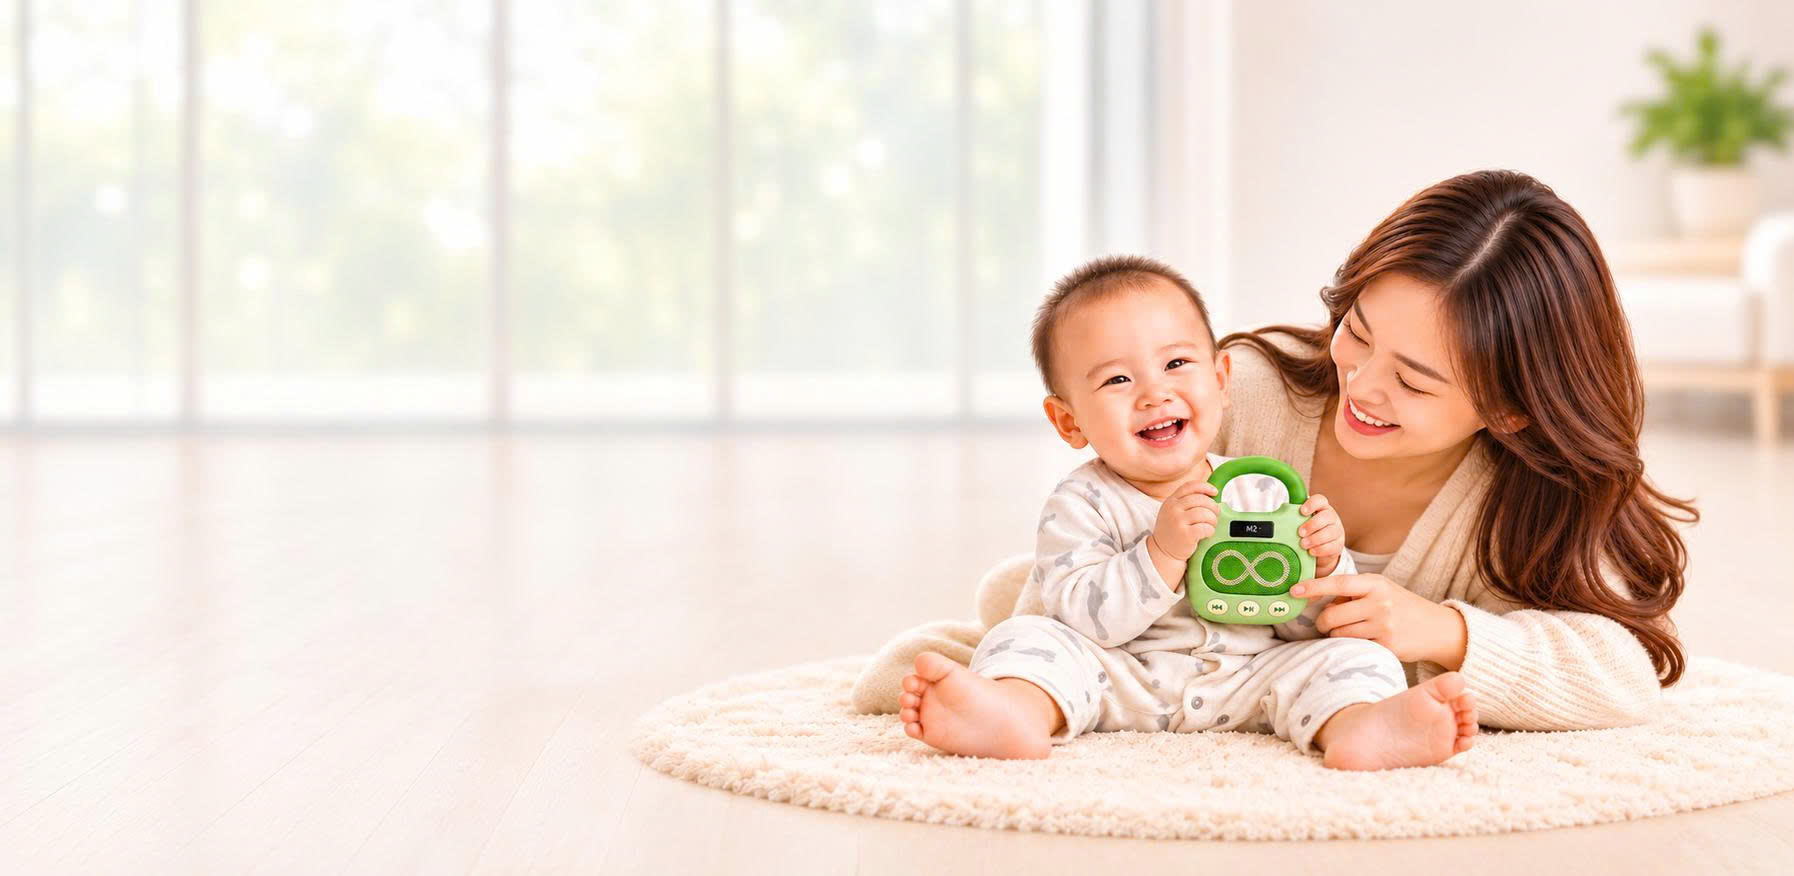
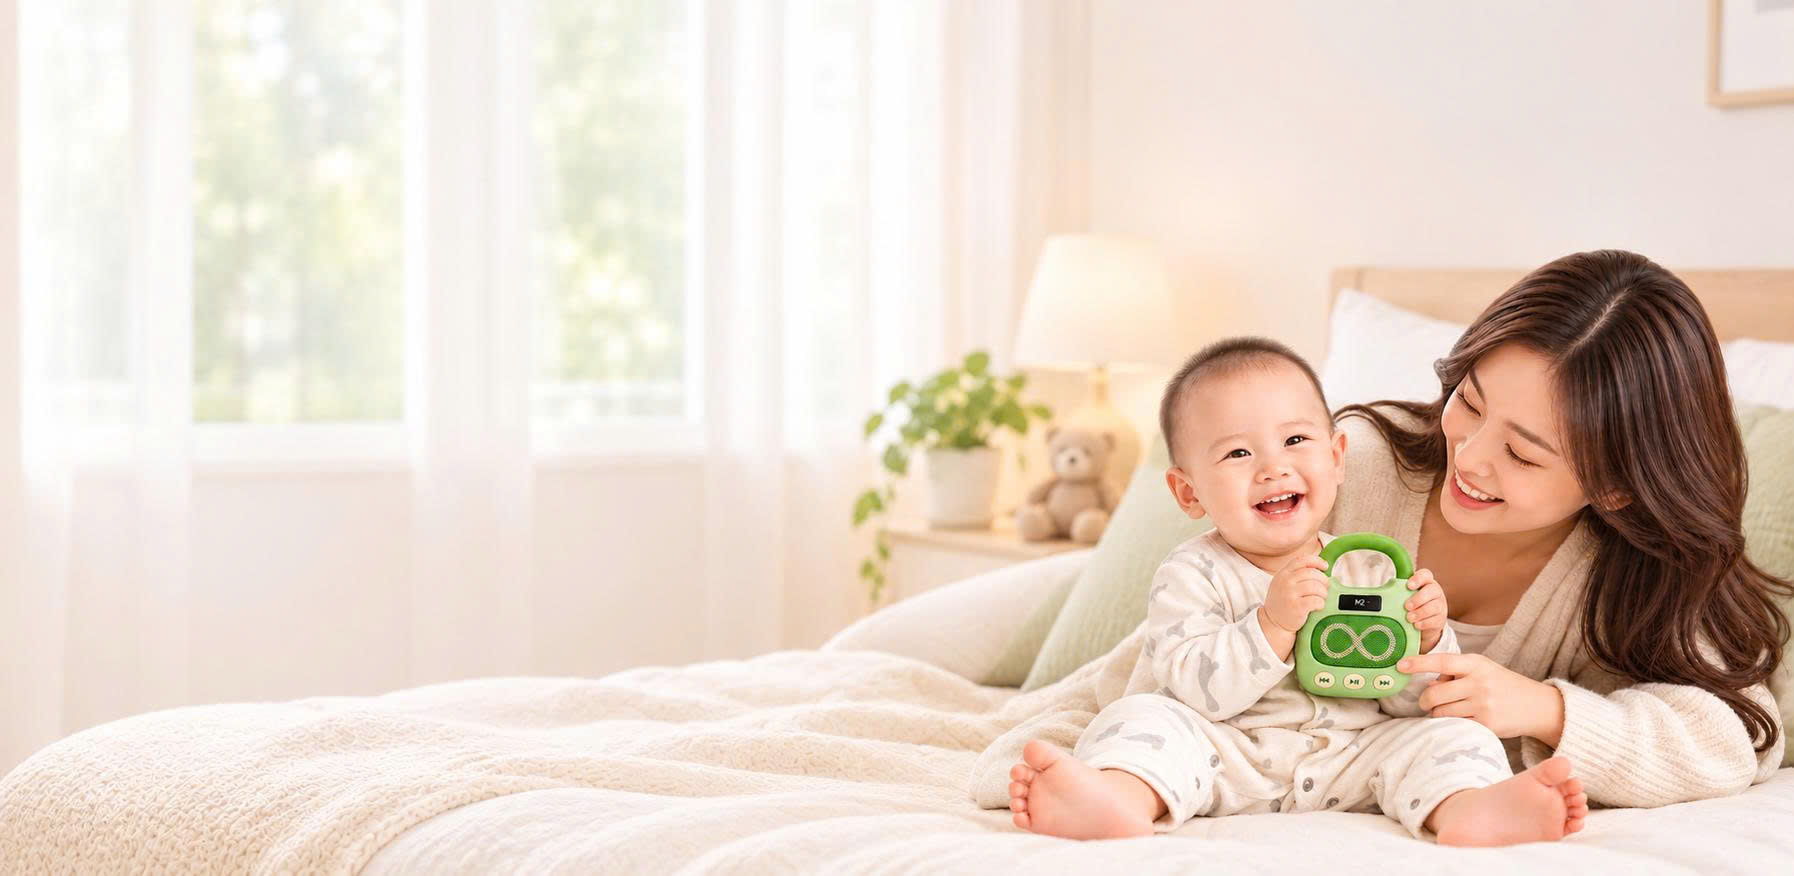
feat(index): change background image section 1 #3

diff --git a/source-main/assets/css/style-responsive.css b/source-main/assets/css/style-responsive.css
@@ -73,7 +73,9 @@
     }
 
     .home-wrapper-section-banner {
-        height: calc(100vh - 56px);
+    height: auto;
+    min-height: calc(100vh - 56px);
+    padding-bottom: 56vw;
     }
 
     .grg {
@@ -422,6 +424,14 @@
 
     .z {
         display: none;
+    }
+
+    /* Banner cao theo nội dung (không cố định 100vh) để màn hình thấp như
+       iPhone SE chữ không đè lên mặt bé; chừa đáy cho phần mẹ & bé. */
+    .home-wrapper-section-banner {
+        height: auto;
+        min-height: calc(100vh - 56px);
+        padding-bottom: 56vw;
     }
 
     .home-wrapper-section-primary {
@@ -884,5 +894,17 @@
 @media screen and (max-width: 440px) {
     .language-switcher-text-span-secondary {
         font-size: 12px;
+    }
+}
+
+/* iPad dọc (769–1024px): dùng ảnh banner dọc giống mobile.
+   iPad ngang vẫn giữ ảnh ngang của desktop. */
+@media screen and (min-width: 769px) and (max-width: 1024px) and (orientation: portrait) {
+    .z.mb {
+        display: block;
+    }
+
+    .z {
+        display: none;
     }
 }

diff --git a/source-main/index-en.html b/source-main/index-en.html
@@ -245,9 +245,9 @@
                 </noscript>
             </div>
             <section id="home" class="home-wrapper-section-banner" aria-labelledby="hero-heading">
-                <img class="z" src="./assets/images/Mom&baby1.jpg" alt="Mom and baby"
+                <img class="z" src="./assets/images/Mom&baby.jpg" alt="Mom and baby"
                     role="presentation">
-                <img class="z mb" src="./assets/images/image-banner-mb.png" alt="" role="presentation">
+                <img class="z mb" src="./assets/images/Mom&baby-mobile.jpg" alt="" role="presentation">
                 <div class="container language-switcher-wrapper flex-direction-column">
                     <div class="language-switcher">
                         <div class="language-switcher-wrapper-div-primary">

diff --git a/source-main/index.html b/source-main/index.html
@@ -246,9 +246,9 @@
                 </noscript>
             </div>
             <section id="home" class="home-wrapper-section-banner" aria-labelledby="hero-heading">
-                <img class="z" src="./assets/images/Mom&baby1.jpg" alt="Mẹ và bé"
+                <img class="z" src="./assets/images/Mom&baby.jpg" alt="Mẹ và bé"
                     role="presentation">
-                <img class="z mb" src="./assets/images/image-banner-mb.png" alt="" role="presentation">
+                <img class="z mb" src="./assets/images/Mom&baby-mobile.jpg" alt="" role="presentation">
                 <div class="container language-switcher-wrapper flex-direction-column">
                     <div class="language-switcher">
                         <div class="language-switcher-wrapper-div-primary">

diff --git a/source-main/assets/css/style.css b/source-main/assets/css/style.css
@@ -608,6 +608,7 @@ details[open] .content-image-img {
 
 .z.mb {
     display: none;
+    object-position: center bottom;
 }
 
 .z-2 {
